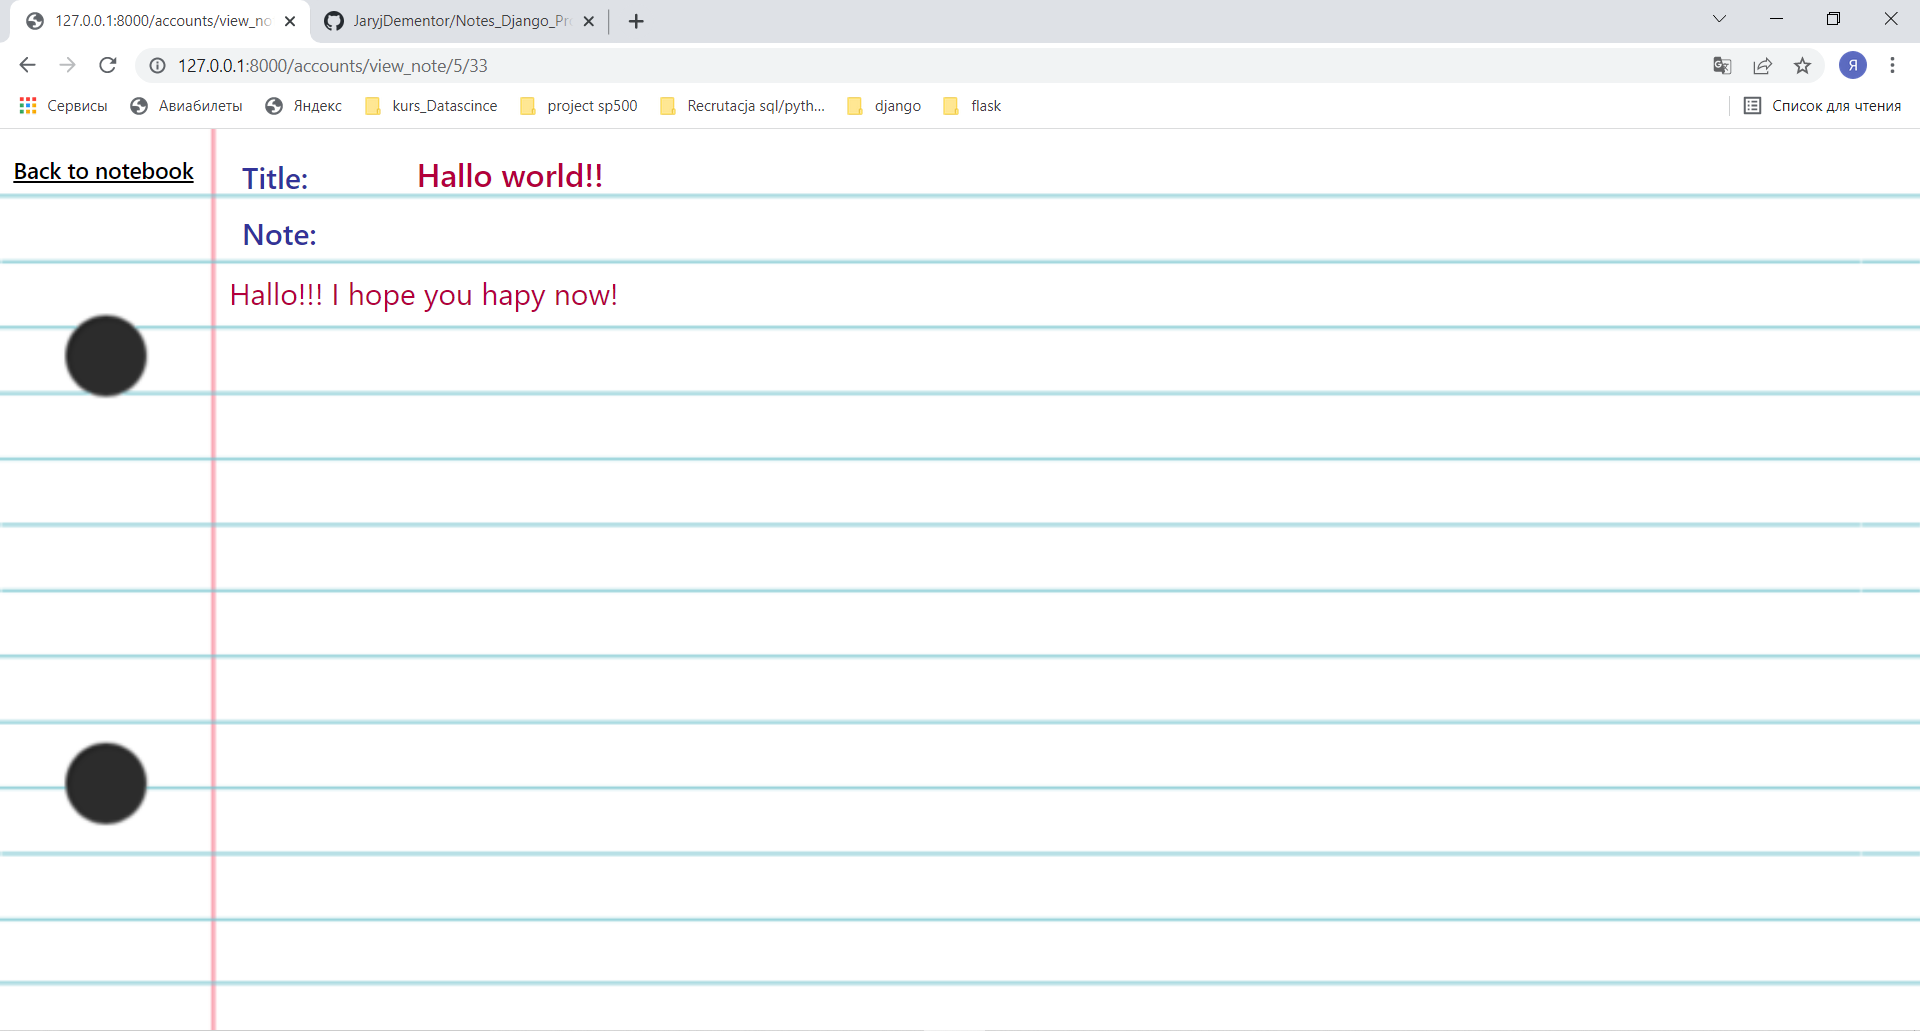
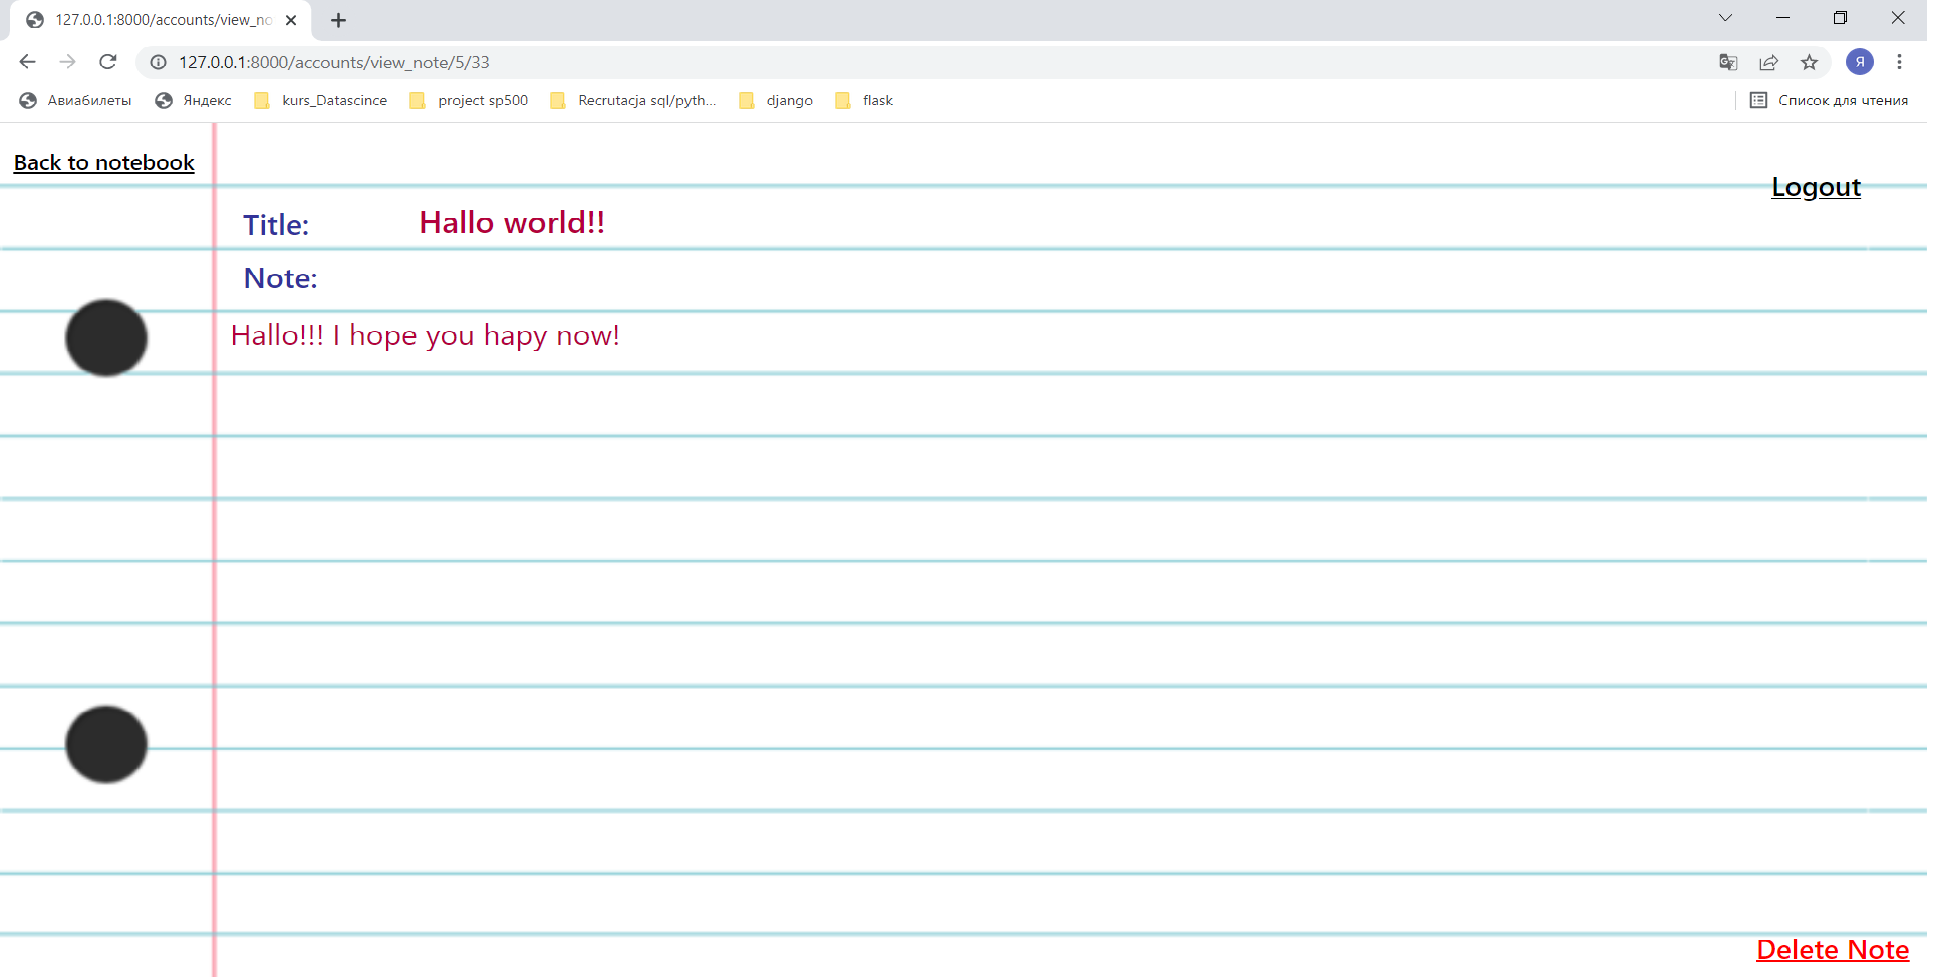
update readme

diff --git a/README.md b/README.md
@@ -59,15 +59,17 @@
 ![](img_For_README/creat_notebook.png)
 
 ### If the user clicks on the one of the notebooks,the app will take them to the view title notebook.
-![](img_For_README/notebooks1.png)
+![](img_For_README/notebook.png)
 
-### On this page you can view the title of your entries or go to the page for creating new note.
+### On this page you can view the title of your entries, go to the page for creating new note or delete notebook .
 ## If the user navigates to the page for creating a new note, the application will go to the record creation page.
 ![](img_For_README/create_note.png)
 
 
 ## If the user clicks on the title of their entry, the app will take them to the view note page
 ![](img_For_README/note.png)
+
+## On this page user can delete note. 
 ## If the user clicks on Logout, the software logs the user out and goes to the first page.
 
 ## Thank you for reading the Notes app :)
